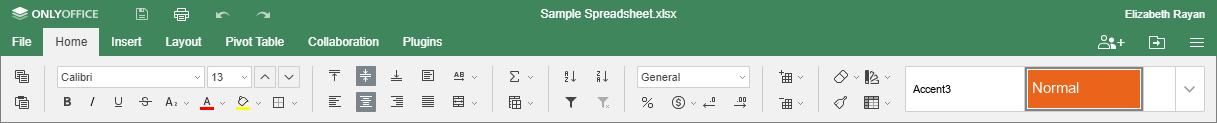
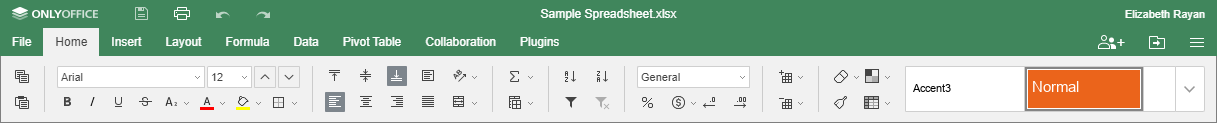
Updates to the documentation

diff --git a/OfficeWeb/apps/spreadsheeteditor/main/resources/help/ru/ProgramInterface/ProgramInterface.htm b/OfficeWeb/apps/spreadsheeteditor/main/resources/help/ru/ProgramInterface/ProgramInterface.htm
@@ -36,7 +36,7 @@
                         <li class="onlineDocumentFeatures"><img alt="Значок управления правами доступа" src="../images/access_rights.png" /> <b>Управление правами доступа</b> (доступно только в <em>онлайн-версии</em>), с помощью которого можно <a href="../HelpfulHints/CollaborativeEditing.htm" onclick="onhyperlinkclick(this)">задать права доступа</a> к документам, сохраненным в облаке.</li>
                     </ul>
                 </li>
-                <li>На <b>Верхней панели инструментов</b> отображается набор команд редактирования в зависимости от выбранной вкладки меню. В настоящее время доступны следующие вкладки: <a href="../ProgramInterface/FileTab.htm" onclick="onhyperlinkclick(this)">Файл</a>, <a href="../ProgramInterface/HomeTab.htm" onclick="onhyperlinkclick(this)">Главная</a>, <a href="../ProgramInterface/InsertTab.htm" onclick="onhyperlinkclick(this)">Вставка</a>, <a href="../ProgramInterface/LayoutTab.htm" onclick="onhyperlinkclick(this)">Макет</a>, <span class="onlineDocumentFeatures"><a href="../ProgramInterface/PivotTableTab.htm" onclick="onhyperlinkclick(this)">Сводная таблица</a>, </span><a href="../ProgramInterface/CollaborationTab.htm" onclick="onhyperlinkclick(this)">Совместная работа</a>, <span class="desktopDocumentFeatures">Защита,</span> <a href="../ProgramInterface/PluginsTab.htm" onclick="onhyperlinkclick(this)">Плагины</a>.
+                <li>На <b>Верхней панели инструментов</b> отображается набор команд редактирования в зависимости от выбранной вкладки меню. В настоящее время доступны следующие вкладки: <a href="../ProgramInterface/FileTab.htm" onclick="onhyperlinkclick(this)">Файл</a>, <a href="../ProgramInterface/HomeTab.htm" onclick="onhyperlinkclick(this)">Главная</a>, <a href="../ProgramInterface/InsertTab.htm" onclick="onhyperlinkclick(this)">Вставка</a>, <a href="../ProgramInterface/LayoutTab.htm" onclick="onhyperlinkclick(this)">Макет</a>, <a href="../ProgramInterface/FormulaTab.htm" onclick="onhyperlinkclick(this)">Формула</a>, <a href="../ProgramInterface/DataTab.htm" onclick="onhyperlinkclick(this)">Данные</a>, <span class="onlineDocumentFeatures"><a href="../ProgramInterface/PivotTableTab.htm" onclick="onhyperlinkclick(this)">Сводная таблица</a>, </span><a href="../ProgramInterface/CollaborationTab.htm" onclick="onhyperlinkclick(this)">Совместная работа</a>, <span class="desktopDocumentFeatures">Защита,</span> <a href="../ProgramInterface/PluginsTab.htm" onclick="onhyperlinkclick(this)">Плагины</a>.
                     <p>Опции <img alt="Значок Копировать" src="../images/copy.png" /> <b>Копировать</b> и <img alt="Значок Вставить" src="../images/paste.png" /> <b>Вставить</b> всегда доступны в левой части <b>Верхней панели инструментов</b>, независимо от выбранной вкладки.</p>
                 </li>
                 <li><b>Строка формул</b> позволяет вводить и изменять <a href="../UsageInstructions/InsertFunction.htm" onclick="onhyperlinkclick(this)">формулы</a> или значения в ячейках. В <b>Строке формул</b> отображается содержимое выделенной ячейки.</li>

diff --git a/OfficeWeb/apps/spreadsheeteditor/main/resources/help/en/ProgramInterface/ProgramInterface.htm b/OfficeWeb/apps/spreadsheeteditor/main/resources/help/en/ProgramInterface/ProgramInterface.htm
@@ -37,7 +37,7 @@
                     </ul>
                 </li>
                 
-                <li><b>Top toolbar</b> displays a set of editing commands depending on the selected menu tab. Currently, the following tabs are available: <a href="../ProgramInterface/FileTab.htm" onclick="onhyperlinkclick(this)">File</a>, <a href="../ProgramInterface/HomeTab.htm" onclick="onhyperlinkclick(this)">Home</a>, <a href="../ProgramInterface/InsertTab.htm" onclick="onhyperlinkclick(this)">Insert</a>, <a href="../ProgramInterface/LayoutTab.htm" onclick="onhyperlinkclick(this)">Layout</a>, <span class="onlineDocumentFeatures"><a href="../ProgramInterface/PivotTableTab.htm" onclick="onhyperlinkclick(this)">Pivot Table</a>,</span> <a href="../ProgramInterface/CollaborationTab.htm" onclick="onhyperlinkclick(this)">Collaboration</a>, <span class="desktopDocumentFeatures">Protection,</span> <a href="../ProgramInterface/PluginsTab.htm" onclick="onhyperlinkclick(this)">Plugins</a>.
+                <li><b>Top toolbar</b> displays a set of editing commands depending on the selected menu tab. Currently, the following tabs are available: <a href="../ProgramInterface/FileTab.htm" onclick="onhyperlinkclick(this)">File</a>, <a href="../ProgramInterface/HomeTab.htm" onclick="onhyperlinkclick(this)">Home</a>, <a href="../ProgramInterface/InsertTab.htm" onclick="onhyperlinkclick(this)">Insert</a>, <a href="../ProgramInterface/LayoutTab.htm" onclick="onhyperlinkclick(this)">Layout</a>, <a href="../ProgramInterface/FormulaTab.htm" onclick="onhyperlinkclick(this)">Formula</a>, <a href="../ProgramInterface/DataTab.htm" onclick="onhyperlinkclick(this)">Data</a>, <span class="onlineDocumentFeatures"><a href="../ProgramInterface/PivotTableTab.htm" onclick="onhyperlinkclick(this)">Pivot Table</a>,</span> <a href="../ProgramInterface/CollaborationTab.htm" onclick="onhyperlinkclick(this)">Collaboration</a>, <span class="desktopDocumentFeatures">Protection,</span> <a href="../ProgramInterface/PluginsTab.htm" onclick="onhyperlinkclick(this)">Plugins</a>.
                 <p>The <img alt="Copy icon" src="../images/copy.png" /> <b>Copy</b> and <img alt="Paste icon" src="../images/paste.png" /> <b>Paste</b> options are always available at the left part of the <b>Top toolbar</b> regardless of the selected tab.</p>
                 </li>
                 <li><b>Formula bar</b> allows to enter and edit <a href="../UsageInstructions/InsertFunction.htm" onclick="onhyperlinkclick(this)">formulas</a> or values in the cells. <b>Formula bar</b> displays the content of the currently selected cell.</li>

diff --git a/OfficeWeb/apps/spreadsheeteditor/main/resources/help/en/ProgramInterface/DataTab.htm b/OfficeWeb/apps/spreadsheeteditor/main/resources/help/en/ProgramInterface/DataTab.htm
@@ -1,0 +1,34 @@
+<!DOCTYPE html>
+<html>
+	<head>
+		<title>Data tab</title>
+		<meta charset="utf-8" />
+        <meta name="description" content="Introducing the Spreadsheet Editor user interface - Data tab" />
+		<link type="text/css" rel="stylesheet" href="../editor.css" />
+        <script type="text/javascript" src="../callback.js"></script>
+        <script type="text/javascript" src="../search/js/page-search.js"></script>
+	</head>
+	<body>
+		<div class="mainpart">
+            <div class="search-field">
+                <input id="search" class="searchBar" placeholder="Search" type="text" onkeypress="doSearch(event)">
+            </div>
+			<h1>Data tab</h1>
+            <p>The <b>Data</b> tab allows to manage data on a sheet.</p>
+            <div class="onlineDocumentFeatures">
+                <p>Online Spreadsheet Editor window:</p>
+                <p><img alt="Data tab" src="../images/interface/datatab.png" /></p>
+            </div>
+            <div class="desktopDocumentFeatures">
+                <p>Desktop Spreadsheet Editor window:</p>
+                <p><img alt="Data tab" src="../images/interface/desktop_datatab.png" /></p>
+            </div>
+            <p>Using this tab, you can:</p>
+            <ul>
+                <li><a href="../UsageInstructions/SortData.htm" onclick="onhyperlinkclick(this)">sort and filter</a> your data,</li>
+                <li>convert <a href="../UsageInstructions/InsertImages.htm" onclick="onhyperlinkclick(this)">text to columns</a>,</li>
+                <li><a href="../UsageInstructions/SavePrintDownload.htm#printarea" onclick="onhyperlinkclick(this)">group and ungroup</a> data.</li>                
+            </ul>
+		</div>
+	</body>
+</html>

diff --git a/OfficeWeb/apps/spreadsheeteditor/main/resources/help/en/ProgramInterface/FormulaTab.htm b/OfficeWeb/apps/spreadsheeteditor/main/resources/help/en/ProgramInterface/FormulaTab.htm
@@ -1,0 +1,35 @@
+<!DOCTYPE html>
+<html>
+	<head>
+		<title>Formula tab</title>
+		<meta charset="utf-8" />
+        <meta name="description" content="Introducing the Spreadsheet Editor user interface - Formula tab" />
+		<link type="text/css" rel="stylesheet" href="../editor.css" />
+        <script type="text/javascript" src="../callback.js"></script>
+        <script type="text/javascript" src="../search/js/page-search.js"></script>
+	</head>
+	<body>
+		<div class="mainpart">
+            <div class="search-field">
+                <input id="search" class="searchBar" placeholder="Search" type="text" onkeypress="doSearch(event)">
+            </div>
+			<h1>Formula tab</h1>
+            <p>The <b>Formula</b> tab allows to easily <a href="../UsageInstructions/InsertFunction.htm" onclick="onhyperlinkclick(this)">work with all functions</a>.</p>
+            <div class="onlineDocumentFeatures">
+                <p>Online Spreadsheet Editor window:</p>
+                <p><img alt="Formula tab" src="../images/interface/formulatab.png" /></p>
+            </div>
+            <div class="desktopDocumentFeatures">
+                <p>Desktop Spreadsheet Editor window:</p>
+                <p><img alt="Formula tab" src="../images/interface/desktop_formulatab.png" /></p>
+            </div>
+            <p>Using this tab, you can:</p>
+            <ul>
+                <li>insert functions using the <b>Insert Function</b> dialog window,</li>
+                <li>quickly access <b>Autosum</b> formulas,</li>
+                <li>access 10 <b>recently used</b> formulas,</li> 
+                <li>work with formulas classified into categories.</li>               
+            </ul>
+		</div>
+	</body>
+</html>
